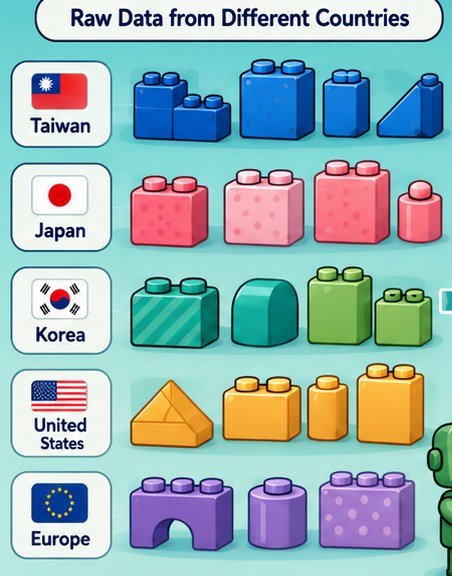
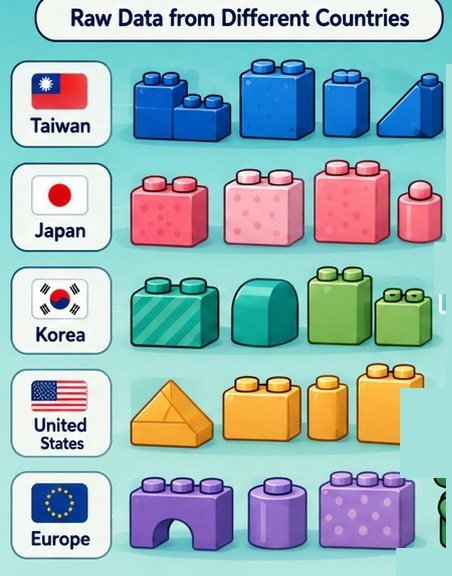
Clean up the CDM raw-bricks image and refine its frame
Paint out the intruding robot/arrow from the next column and tidy the right edge of the raw-bricks crop. Refine the showcase frame: thinner edge, softer rounded shadow, and a neat centred row of plate studs on top.

diff --git a/assets/css/styles.css b/assets/css/styles.css
@@ -424,15 +424,19 @@ main:focus { outline: none; }
 }
 
 /* CDM showcase — framed like a LEGO build-instruction plate */
-.cdm-showcase { position: relative; margin: 1.6rem 0 0; background: #fff;
-  border: 3px solid #0a2540; border-radius: 16px; box-shadow: 7px 8px 0 rgba(10,37,64,.18);
-  padding: 14px 14px 10px; }
-.cdm-showcase::before { content: ""; position: absolute; top: -13px; left: 26px; width: 150px; height: 17px;
-  pointer-events: none; background-repeat: repeat-x; background-size: 30px 17px;
+.cdm-showcase { position: relative; margin: 1.8rem 0 0; background: #fff;
+  border: 2.5px solid var(--brick-edge, #0E3A66); border-radius: 18px;
+  box-shadow: 0 14px 30px rgba(10,37,64,.14), 0 3px 0 rgba(10,37,64,.10);
+  padding: 16px; }
+/* a neat, centred row of plate studs on top */
+.cdm-showcase::before { content: ""; position: absolute; top: -11px; left: 50%; transform: translateX(-50%);
+  width: min(64%, 320px); height: 15px; pointer-events: none;
+  background-repeat: repeat-x; background-position: center; background-size: 27px 15px;
   background-image:
-    radial-gradient(circle at 14px 6px, rgba(255,255,255,.9) 0 3px, transparent 3.6px),
-    radial-gradient(circle at 14px 8px, #2480D8 0 7px, transparent 7.6px); }
-.cdm-showcase img { width: 100%; height: auto; display: block; border-radius: 10px; }
+    radial-gradient(circle at 13.5px 5px, rgba(255,255,255,.95) 0 2.4px, transparent 3px),
+    radial-gradient(circle at 13.5px 7.5px, #1f6fc0 0 6.4px, transparent 7px); }
+.cdm-showcase img { width: 100%; height: auto; display: block; border-radius: 12px;
+  box-shadow: inset 0 0 0 1px rgba(10,37,64,.06); }
 .cdm-showcase figcaption { text-align: center; color: var(--muted); font-size: .92rem; margin-top: .75rem; }
 .cdm-steps { display: grid; grid-template-columns: repeat(3, 1fr); gap: 1rem 1.5rem; margin-top: 1.8rem; }
 .cdm-step { display: flex; gap: .7rem; align-items: flex-start; }